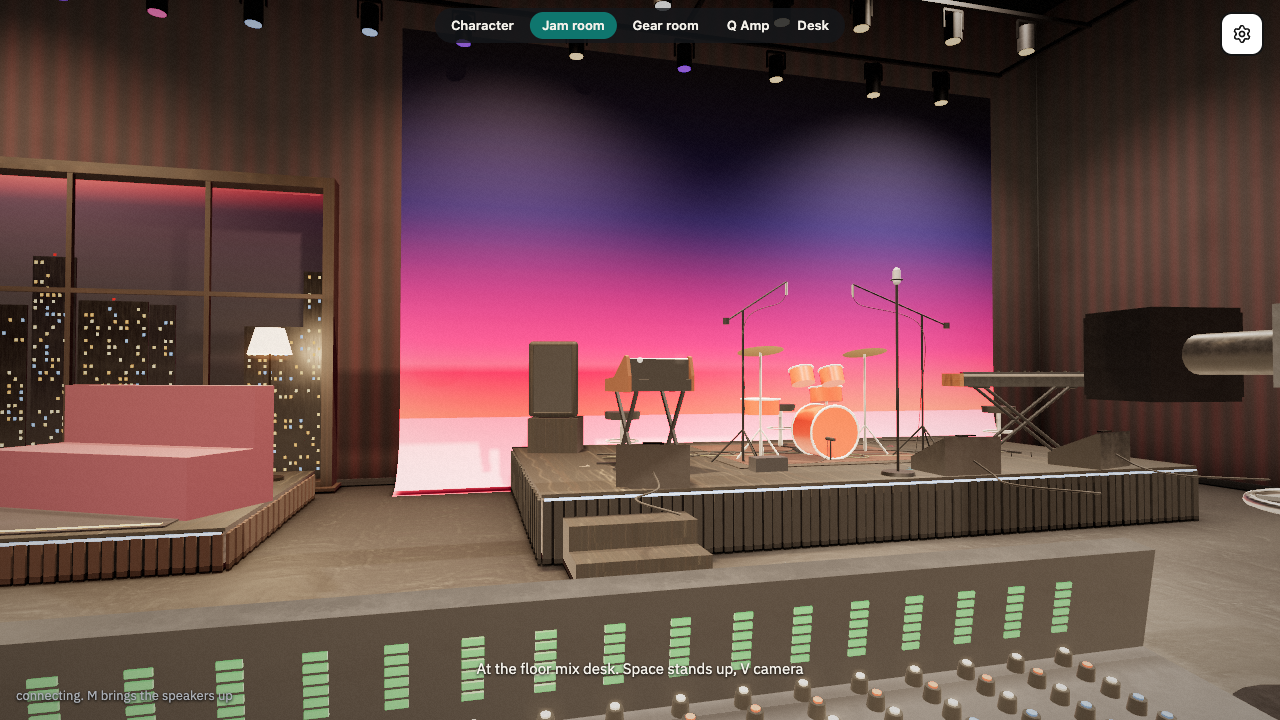
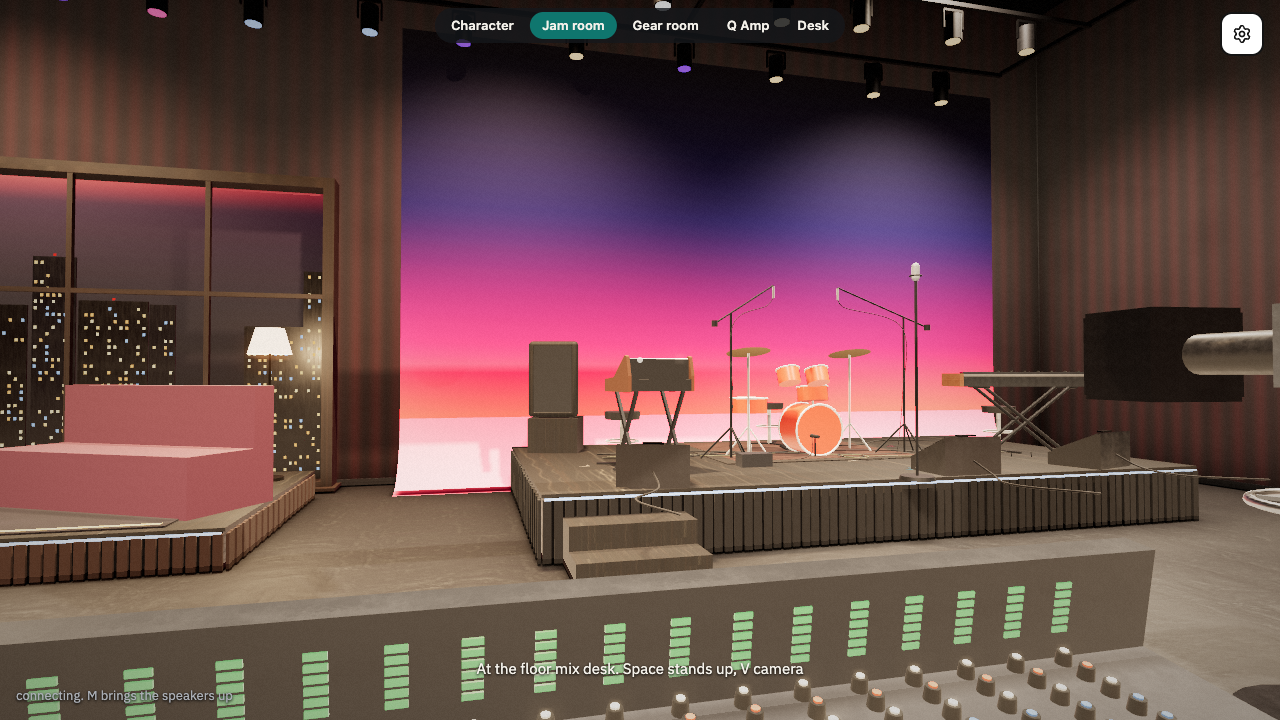
Sound stage: room to stand up from the mic and the kit; the cyc's cove is floor you can step on

Changed region(s): [[0.5312, 0.3667, 0.75, 0.6722], [0.5938, 0.3972, 0.625, 0.4278]]

diff --git a/apps/fm-daw/src/studio/room.ts b/apps/fm-daw/src/studio/room.ts
@@ -107,7 +107,7 @@ export interface Prop {
   seed?: number;
 }
 /** Dressing you walk round: anything standing on the floor except what's flat or thin. */
-export const propBlocks = (p: Prop) => (p.y ?? 0) < 0.5 && !["rug", "panel", "frames", "window", "micStand", "lamp", "balcony", "cables", "clutter", "riser", "grid"].includes(p.kind);
+export const propBlocks = (p: Prop) => (p.y ?? 0) < 0.5 && !["rug", "panel", "frames", "window", "micStand", "lamp", "balcony", "cables", "clutter", "riser", "grid", "cyc"].includes(p.kind);
 /** A prop's footprint, as a box on the floor turned by its yaw. */
 export const propBox = (p: Prop) => ({ cx: p.at[0], cz: p.at[1], hw: p.w / 2, hd: p.d / 2, turn: p.yaw });
 /** How high the floor is here: a riser's deck under (x, z) lifts whoever stands or sits on it, and what they play. */

diff --git a/apps/fm-daw/src/studio/rooms/sound-stage.ts b/apps/fm-daw/src/studio/rooms/sound-stage.ts
@@ -20,10 +20,10 @@ export const SOUND_STAGE: StudioDef = {
   walls: [],
   spots: [
     // the band on its riser, facing out at the bleachers
-    seat("drums", "drums", [3, -5.4], OUT),
+    seat("drums", "drums", [3, -5.7], OUT),
     seat("keys", "keys", [5.1, -4.4], OUT - 0.3, "the keys", "keys"),
     seat("bass", "bass", [0.9, -4.4], OUT + 0.3),
-    seat("vocal", "booth", [3, -3.75], OUT, "the mic"),
+    seat("vocal", "booth", [3, -3.5], OUT, "the mic"),
     // the guest couch on the home base, turned to the host's desk
     { ...seat("couch", "couch", [-3.2, -4.4], OUT - 0.5, "the guest couch"), thing: { w: 2, d: 0.8, h: 0.45, ahead: -0.15, color: "#4a2030" } },
     // the floor mix desk behind the cameras, looking at the band
